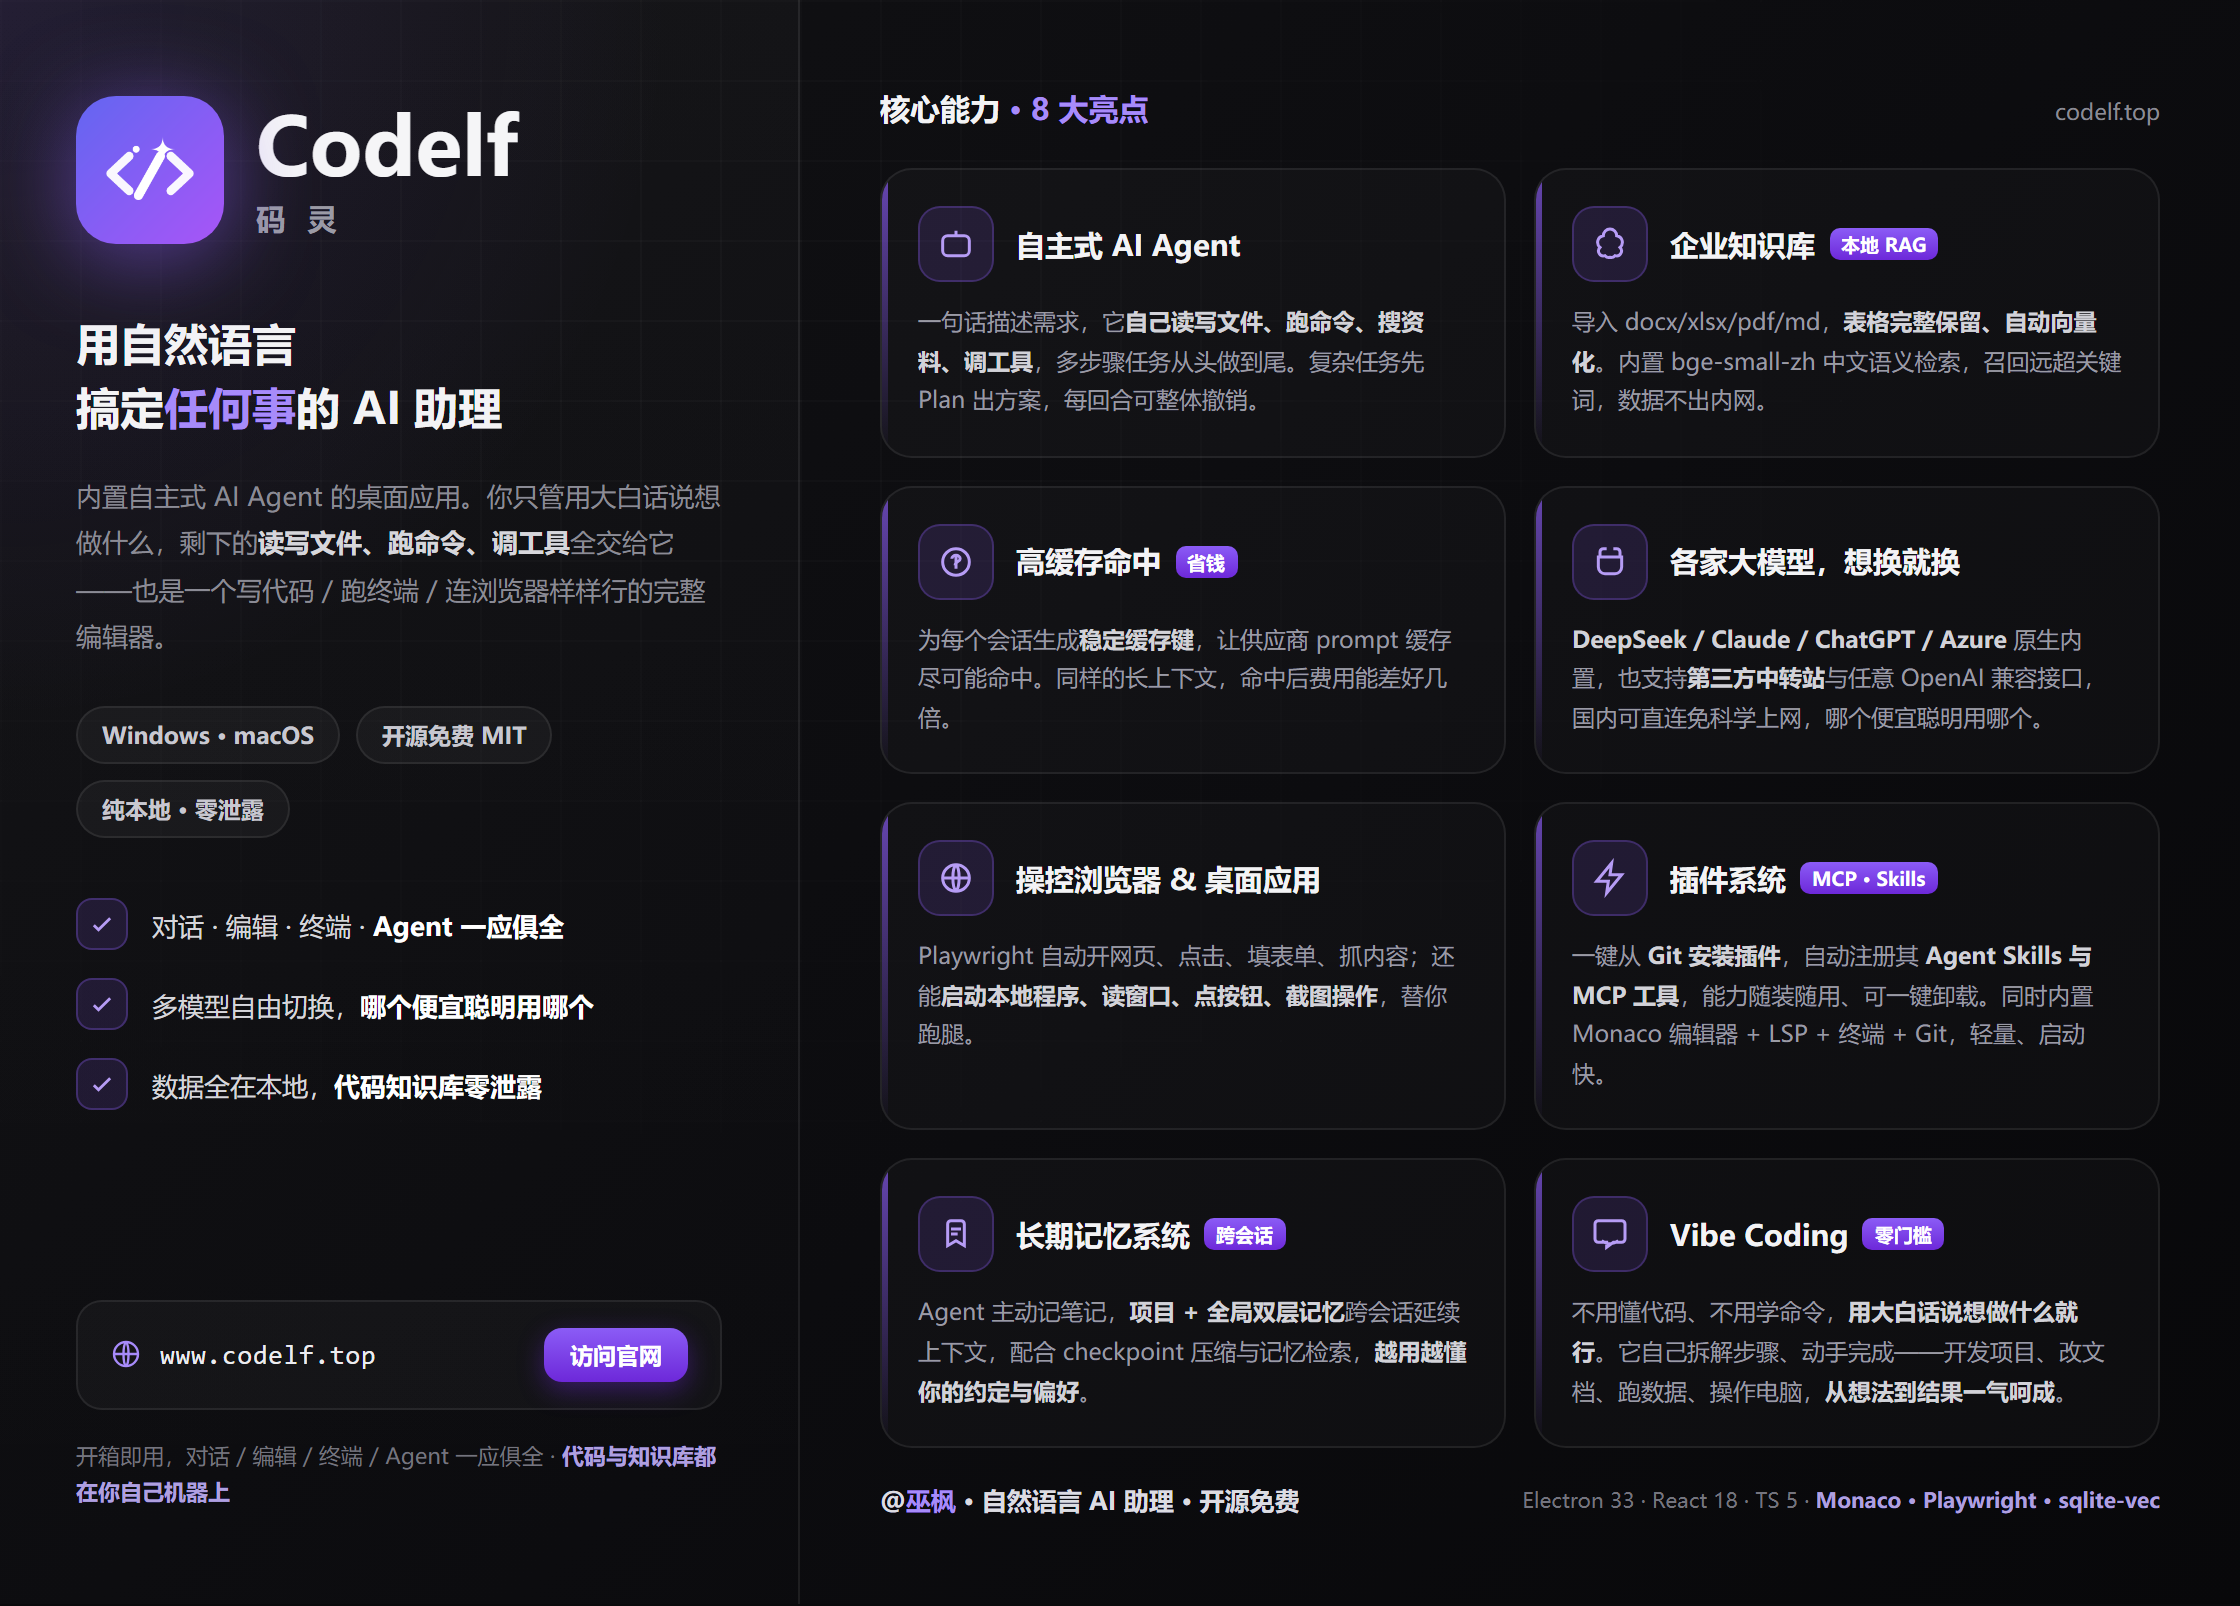
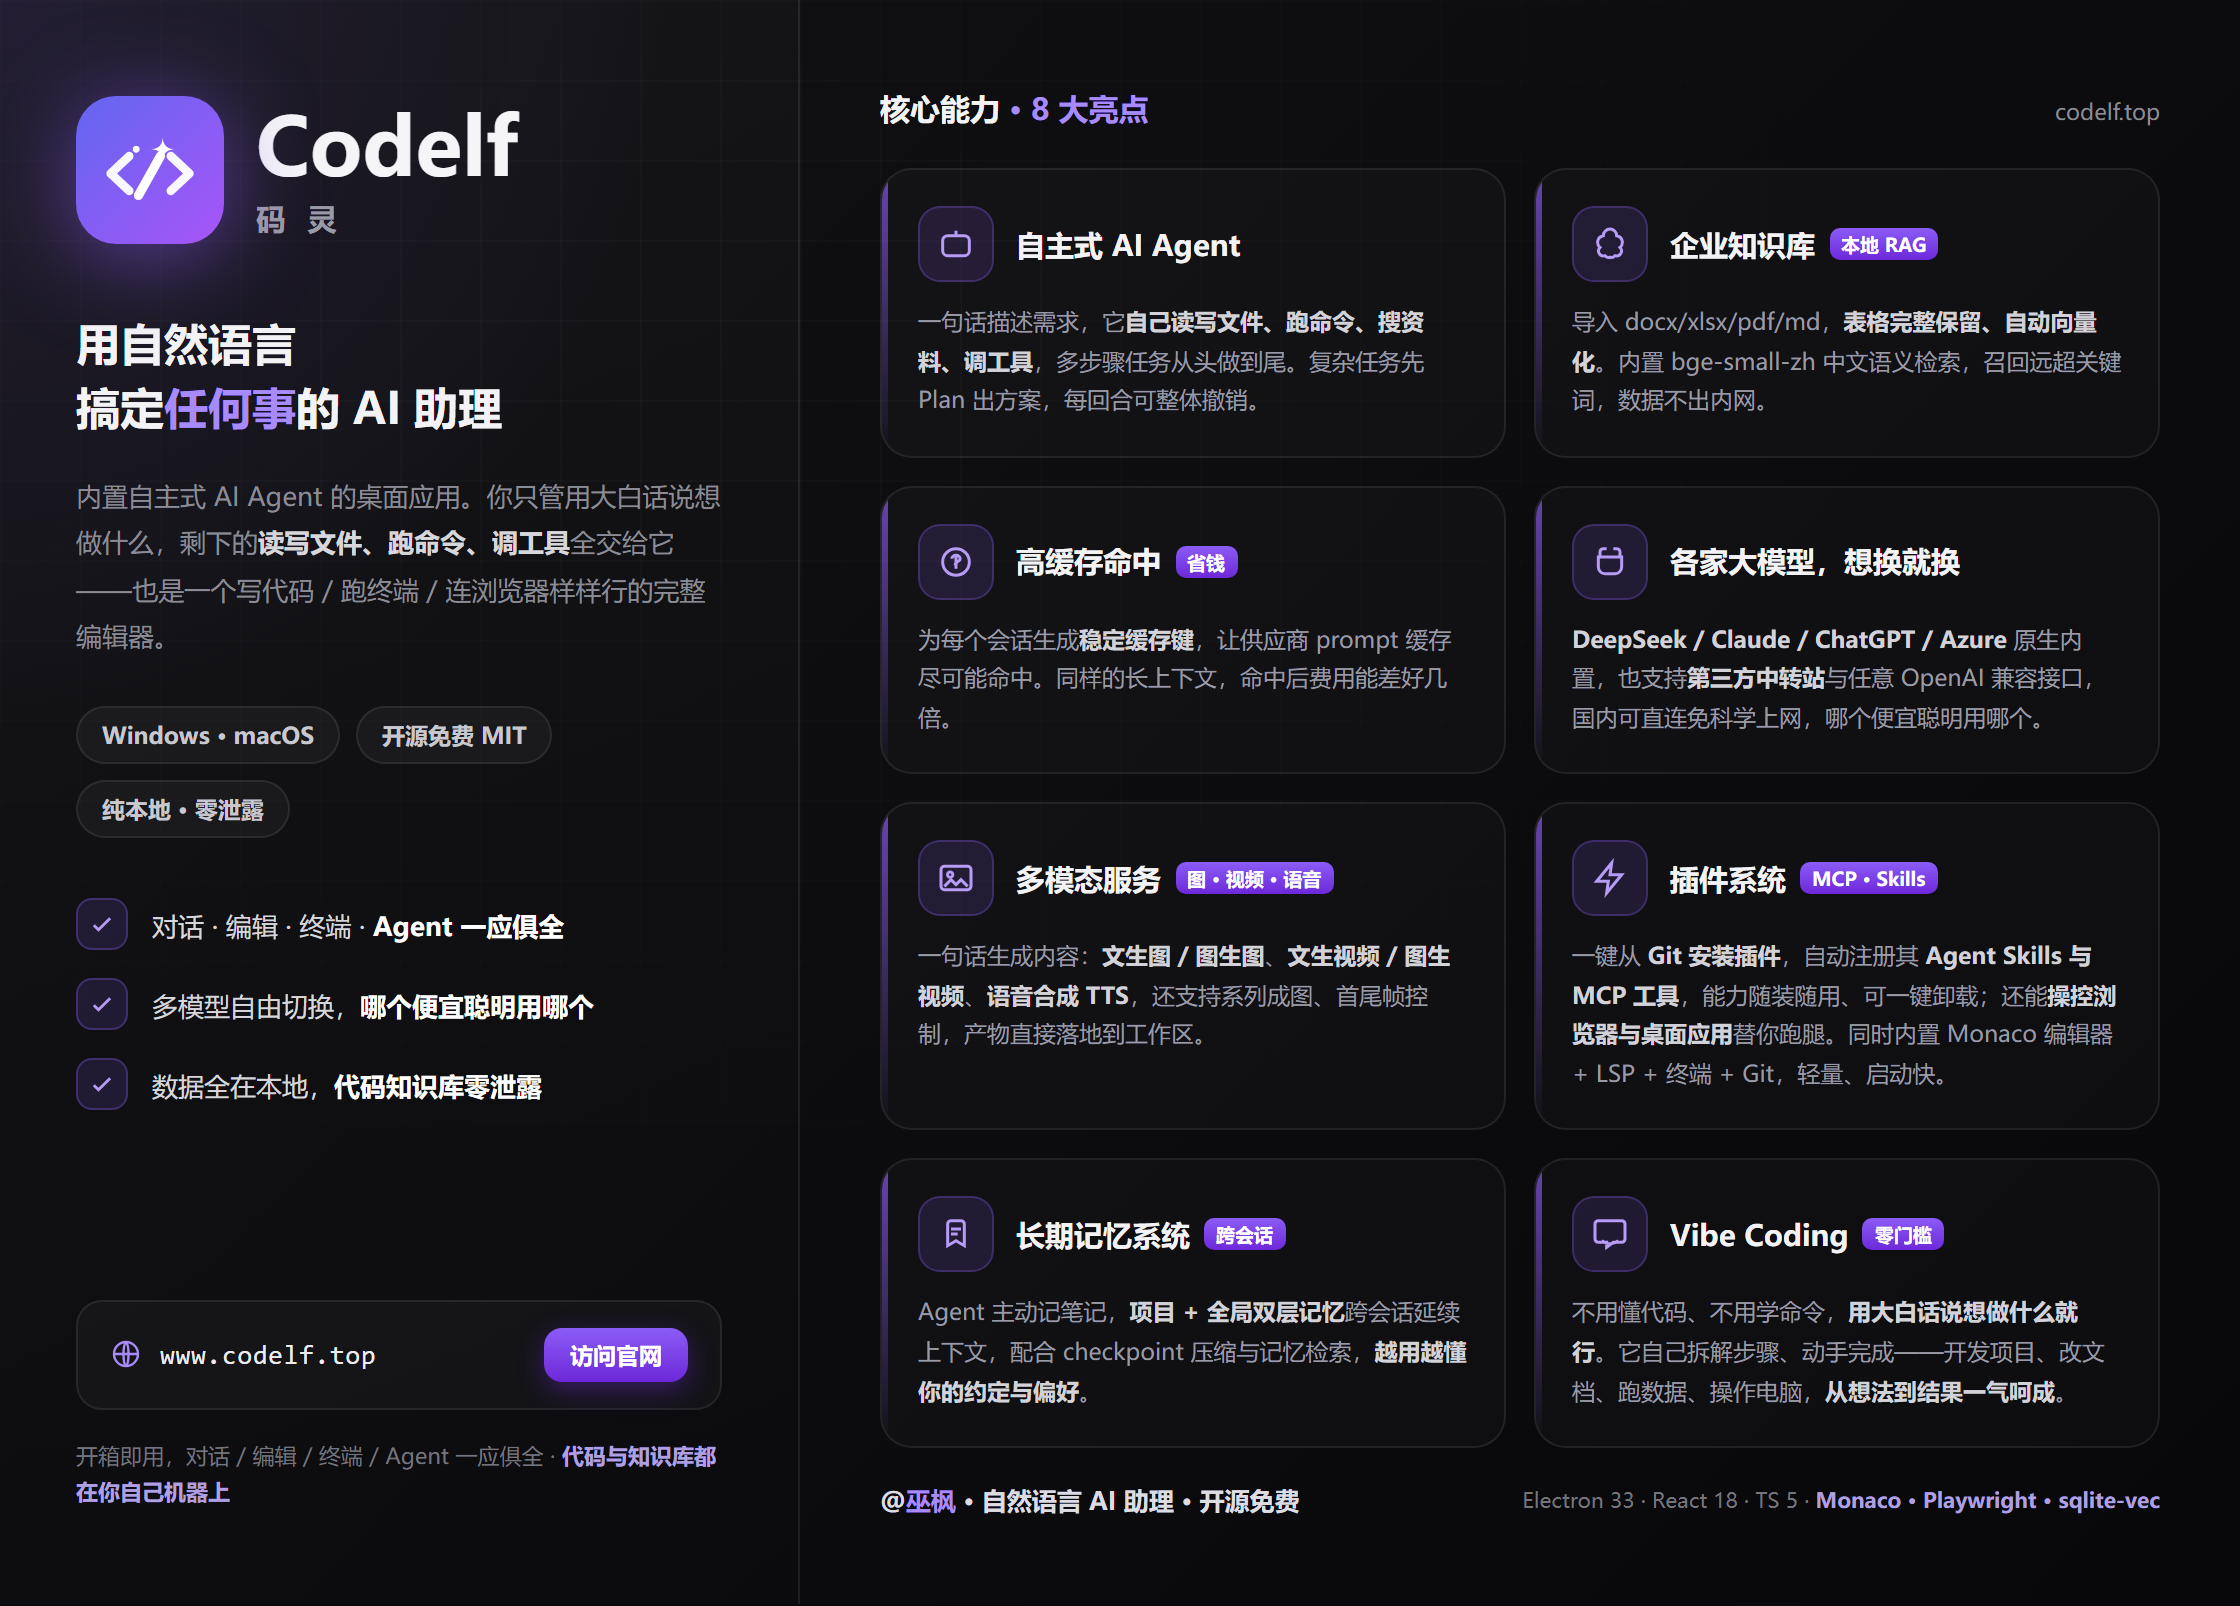
更新readme

Changed region(s): [[0.6875, 0.5915, 0.9375, 0.6849], [0.4062, 0.5915, 0.6562, 0.6538], [0.4062, 0.5293, 0.5938, 0.5604]]

diff --git a/scripts/poster.html b/scripts/poster.html
@@ -222,10 +222,10 @@
 
         <div class="card">
           <div class="top">
-            <div class="ic"><svg viewBox="0 0 24 24"><circle cx="12" cy="12" r="8"/><path d="M4 12h16M12 4c2.5 2.5 2.5 13 0 16M12 4c-2.5 2.5-2.5 13 0 16"/></svg></div>
-            <h3>操控浏览器 &amp; 桌面应用</h3>
+            <div class="ic"><svg viewBox="0 0 24 24"><rect x="3" y="5" width="18" height="14" rx="2"/><circle cx="8.5" cy="10" r="1.6"/><path d="M5 17l4-4 3 3 3-3 4 4"/></svg></div>
+            <h3>多模态服务 <span class="tag">图 · 视频 · 语音</span></h3>
           </div>
-          <p>Playwright 自动开网页、点击、填表单、抓内容；还能<b>启动本地程序、读窗口、点按钮、截图操作</b>，替你跑腿。</p>
+          <p>一句话生成内容：<b>文生图 / 图生图</b>、<b>文生视频 / 图生视频</b>、<b>语音合成 TTS</b>，还支持系列成图、首尾帧控制，产物直接落地到工作区。</p>
         </div>
 
         <div class="card">
@@ -233,7 +233,7 @@
             <div class="ic"><svg viewBox="0 0 24 24"><path d="M13 3 4 14h7l-1 7 9-11h-7z"/></svg></div>
             <h3>插件系统 <span class="tag">MCP · Skills</span></h3>
           </div>
-          <p>一键从 <b>Git 安装插件</b>，自动注册其 <b>Agent Skills 与 MCP 工具</b>，能力随装随用、可一键卸载。同时内置 Monaco 编辑器 + LSP + 终端 + Git，轻量、启动快。</p>
+          <p>一键从 <b>Git 安装插件</b>，自动注册其 <b>Agent Skills 与 MCP 工具</b>，能力随装随用、可一键卸载；还能<b>操控浏览器与桌面应用</b>替你跑腿。同时内置 Monaco 编辑器 + LSP + 终端 + Git，轻量、启动快。</p>
         </div>
         <div class="card">
           <div class="top">
